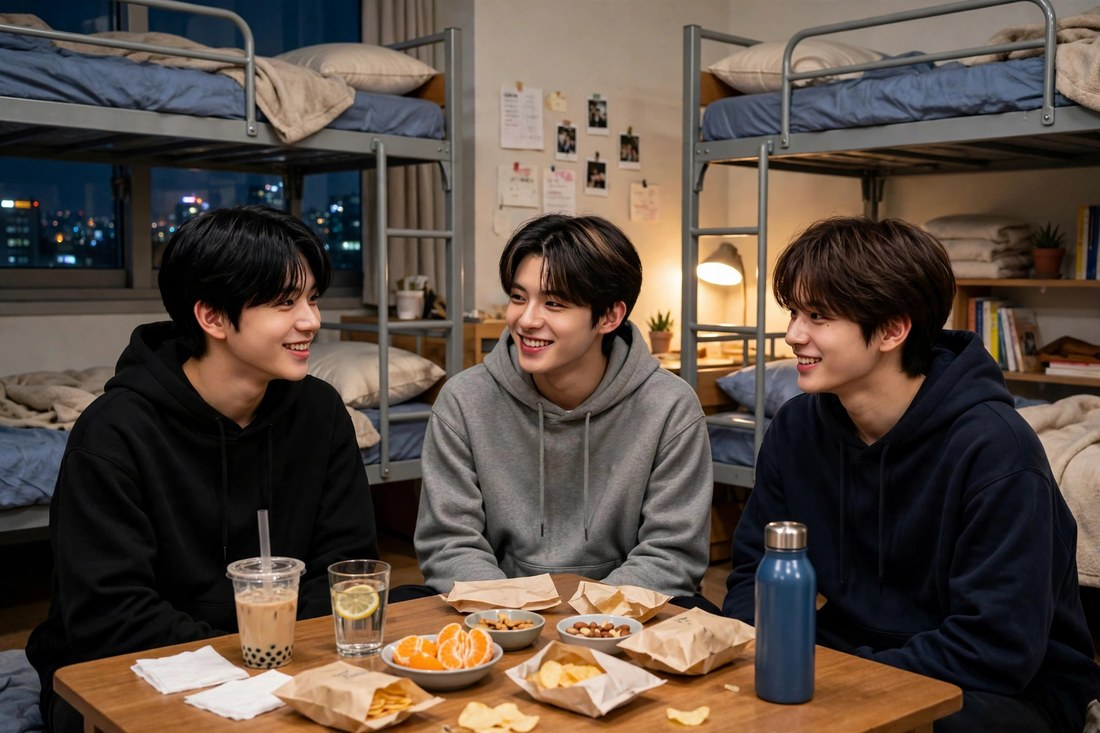
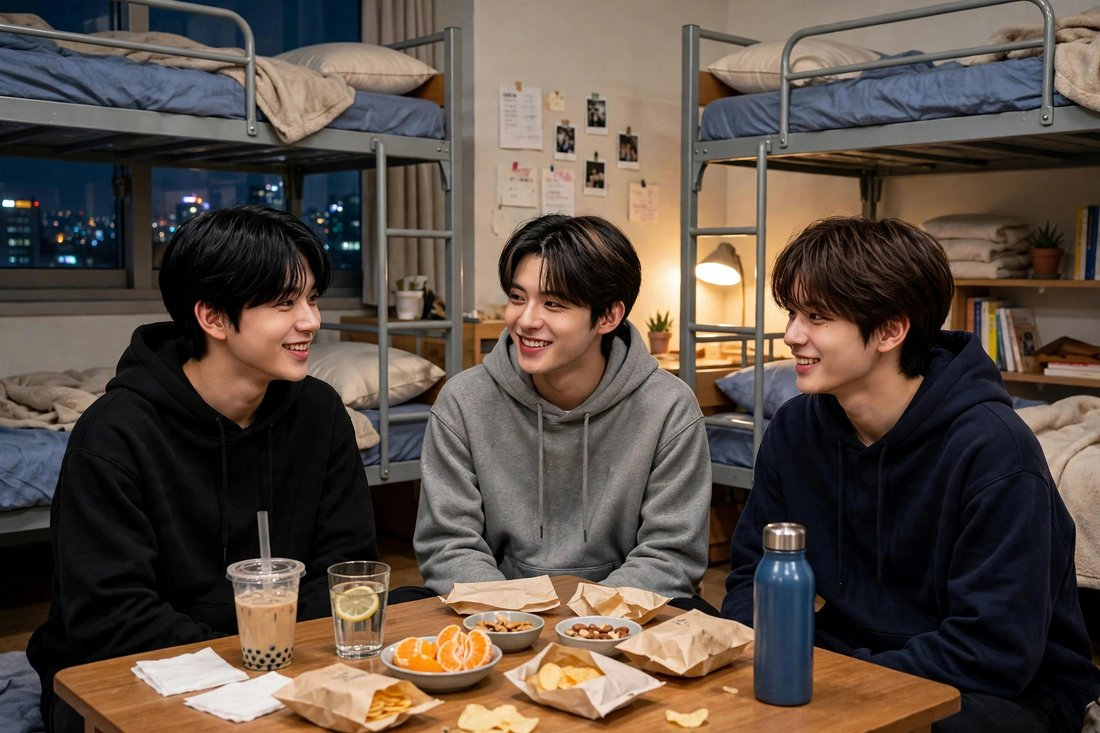
v90: the six member photos' faces pulled closer to the real people — she said "顔をリアル寄せで" after seeing v89 on her phone. Each of the six v89 frames is regenerated as an edit of itself (same scene, composition, poses, clothes, lighting) with the faces redrawn photorealistically from the in-game offici

diff --git a/index.html b/index.html
@@ -1621,6 +1621,7 @@ body.a11y-rm .pimg>img,body.a11y-rm .ig-grid img,body.a11y-rm .ph-grid img,body.
 @keyframes tx87{0%{opacity:0}2.9%{opacity:1}14.3%{opacity:1}17.1%{opacity:0}100%{opacity:0}}
 /* ===== v88: bulk generated photos — she said "大量にがぞういれてな". Twelve new AI-generated photos join the Photos album (PHOTOS), the game's photo surface, as pure additions: no existing photo or asset is replaced anywhere, and nothing else on any screen changes (this block is comment-only; the album grid, For You, albums and search all read PHOTOS as before, and the IG roll picks the new srcs up through the same igRollImgs path). The twelve, each generated for this pass and eyeballed one by one for setting consistency before inclusion (Seoul / 2023 / audition-program world; no readable text, no logos, no watermark, no physical contradictions — mirror reflections, wet-street reflections, backstage rigging all consistent): ten faceless places and things — assets/gen-agency88.jpg (the company lobby: glass facade, pale wood, a wide staircase, empty), assets/gen-practice88.jpg (an empty mirror-walled practice room in the morning, water bottles and a towel by the mirror), assets/gen-dorm88.jpg (the trainees' dorm room at dusk: metal bunk beds, a low table with snacks and notebooks, hoodies over a chair), assets/gen-cafeteria88.jpg (a cafeteria tray: rice, kimchi, miso soup, grilled mackerel, bean sprouts and braised potatoes), assets/gen-ramen88.jpg (a convenience-store window table at night: steaming cup ramen, a triangle kimbap and a banana milk, the rainy street in bokeh behind the glass), assets/gen-backstage88.jpg (a backstage corridor: flight cases, coiled cables, a wedge monitor, blue stage light at the far end), assets/gen-rainstreet88.jpg (a brick alley just after rain, umbrellas by a doorway, shop lights reflecting on wet asphalt; distant signboards are defocused to unreadability), assets/gen-dressing88.jpg (an empty dressing room: a bulb-ringed mirror, garment bags on a rack, a hair dryer and water bottles on the counter), assets/gen-hangangpark88.jpg (Hangang Park on a bright morning: lawn, the river, a long bridge, a parasol stall far off), assets/gen-rooftop88.jpg (the company rooftop at dusk: a railing, the city lighting up, mountains on the horizon) — and two people photos, inside her standing line that face generation is for Nao and Hiroto only, both modeled on the in-game portraits exactly as in v87 (Hiroto on assets/av-hiroto.jpg, Nao on the disguised assets/nao-profile.jpg; the raw personal photos in profile-inbox were neither used nor embedded): assets/gen-hiroto-stage88.jpg (Hiroto alone in the stage wing, black outfit, an ear-monitor in his hand, blue light and haze past the curtain) and assets/gen-duo-practice88.jpg (Hiroto and Nao sitting on the practice-room floor in black hoodies, laughing mid-break; Nao reads as a young male trainee with the same boyish layered brown haircut and small mole — nothing in the frame reveals the secret). Unlock gates reuse the album's existing n scale (1/1/2/2/3/3/3/4/4/4/5/5) and dates run 2023年7月-10月 in the album's own chronology; captions follow the album's established first-person memory-note style from v53/v54. Album data + twelve generated photos + version labels only — story text, DATA, choice effects, thresholds, endings and the save format (+ lastart-wish-undo key) unchanged, no new save fields (the pfav range check reads PHOTOS.length as before, so existing favorites stay valid); the story viewer tap-zone overlap, call toast positions and Nao's age/birthday left alone ===== */
 /* ===== v89: photos with the other members — she asked for "他のメンバとの写真も" and, asked to confirm, answered "メンバーの顔も生成してええよ", lifting her standing line (face generation for Nao and Hiroto only) for member faces as well. Six new AI-generated photos join the Photos album (PHOTOS) as pure additions; no existing photo or asset is replaced anywhere (this block is comment-only; the album grid, For You, albums and search read PHOTOS as before, and the IG roll picks the new srcs up through the same igRollImgs path). The six, each generated for this pass with the members' in-game official portraits as identity references and eyeballed one by one before inclusion (each member must read as himself against his official portrait; Seoul / 2023 / audition-program world; no readable text, no logos, no lettered name tags, no watermark, no physical contradictions): assets/gen-sakuya-nao89.jpg (Sakuya and Nao at a cafeteria table — Sakuya, reddish-brown layered hair and soft round face as in assets/av-sakuya.jpg, holding up a croissant with both hands, his signature bread; Nao beside him in the disguised male-trainee look of assets/nao-profile.jpg, boyish layered brown hair and the small mole — nothing reveals the secret), assets/gen-riku-yushi89.jpg (Riku, black center-parted hair as in assets/av-riku.jpg, stretching on the practice-room floor with a towel round his neck; Yushi, light ash-brown side-swept hair as in assets/av-yushi.jpg, laughing with a water bottle), assets/gen-daeyoung-dorm89.jpg (an evening in the dorm: Daeyoung, black layered hair and soft round face as in assets/av-daeyoung.jpg, Hiroto, streaked dark-brown hair as in assets/av-hiroto.jpg, and Nao around a low table of snacks between the bunk beds), assets/gen-hiroto-sion89.jpg (backstage before a performance: Hiroto in a black stage outfit holding an ear-monitor, Sion, black side-parted hair as in assets/av-sion.jpg, a hand on his shoulder like the leader he is), assets/gen-group-practice89.jpg (six trainees on the practice-room floor mid-break — Hiroto, Nao, Sakuya, Riku, Yushi, Sion in black hoodies, laughing, water bottles in front of them), assets/gen-team-stage89.jpg (four of them in the stage wing in matching black stage outfits, arms round each other's shoulders — Sion, Sakuya, Hiroto, Nao — blue light and haze beyond). Every group frame is a wholesome practice / daily-life / team context only; Sakuya is a minor in this setting, so no romantic composition appears in any photo he is in. The raw personal photos in profile-inbox were neither used as reference nor embedded; Nao's reference is the in-game disguised portrait only. Unlock gates reuse the album's existing n scale (3/3/4/4/5/5) and dates run 2023年8月-10月 in the album's own chronology; captions follow the album's established first-person memory-note style from v53/v54, factual labels only, no new lines for Nao. Album data + six generated photos + version labels only — story text, DATA, choice effects, thresholds, endings and the save format (+ lastart-wish-undo key) unchanged, no new save fields (the pfav range check reads PHOTOS.length as before, so existing favorites stay valid); the story viewer tap-zone overlap, call toast positions and Nao's age/birthday left alone ===== */
+/* ===== v90: the six member photos from v89 are regenerated with faces pulled closer to the real people — she said "顔をリアル寄せで" after seeing v89 on her phone. Each of the six is an edit of its v89 frame (same scene, composition, poses, clothes and lighting) with the faces redrawn photorealistically from the in-game official portraits, referenced one person at a time and eyeballed one by one before adoption: gen-sakuya-nao89.jpg (Sakuya's soft round face and reddish-brown layered hair from av-sakuya; Nao in three-quarter profile with the layered brown hair and small mole of nao-profile, still reading as a young male trainee), gen-riku-yushi89.jpg (Riku's defined features and black center-parted hair from av-riku in profile; Yushi's slim face, sharp eyes and light ash-brown hair from av-yushi), gen-daeyoung-dorm89.jpg (Daeyoung's soft round face and black layered hair from av-daeyoung; Hiroto's round face, big eyes and streaked dark-brown hair from av-hiroto; Nao's soft features and mole from nao-profile), gen-hiroto-sion89.jpg (Hiroto from av-hiroto looking up; Sion's longer face, defined nose and jaw and black side-parted hair from av-sion), gen-group-practice89.jpg (all six in album order — Hiroto, Nao, Sakuya, Riku, Yushi, Sion — each distinguishable by hair and face type), gen-team-stage89.jpg (Sion, Sakuya, Hiroto, Nao left to right, each matching his portrait). File names, album placement, unlock gates, dates and captions are exactly as in v89; every official photo is untouched and the raw personal photos in profile-inbox were neither used nor embedded. All frames remain wholesome practice / daily-life / team contexts only; Sakuya is a minor in this setting, so no romantic composition appears in any photo he is in. Photos only + version labels + this comment + README — story text, DATA, choice effects, thresholds, endings and the save format (+ lastart-wish-undo key) unchanged, no new save fields; the story viewer tap-zone overlap, call toast positions and Nao's age/birthday left alone ===== */
 </style>
 </head>
 <body>
@@ -1651,7 +1652,7 @@ body.a11y-rm .pimg>img,body.a11y-rm .ig-grid img,body.a11y-rm .ph-grid img,body.
 <button class="t-btn sub" id="t-ends">エンディングコレクション <span id="t-ends-n"></span></button>
 <div class="t-note">実在の人物・番組を題材にした創作フィクション（ファンメイド作品）です。会話やナオ・大翔の結果は創作であり、史実の選抜結果とは異なる分岐を含みます。</div>
 <div class="t-note" style="font-size:9px;line-height:1.55;opacity:.72">追加写真の一部は Wikimedia Commons のCCライセンス写真などです（トッポッキ＝jetalone／CC BY 2.0、漢江の夜景＝d'n'c／CC BY-SA 2.0（カバー写真は別トリミング・反転の加工版）、東京ドーム＝ClarkSui／CC BY-SA 3.0、弘大の通り＝Minseong Kim／CC BY-SA 4.0、サムギョプサル＝revi／CC BY 2.0 KR、景福宮＝Kokiri／CC BY-SA 3.0、Nソウルタワー＝lumoplank／CC0、大阪城＝Martin Falbisoner／CC BY-SA 4.0（母のカバー写真は別トリミングの加工版）、広蔵市場のチヂミ＝Bo Park（米陸軍）／パブリックドメイン、パン屋のショーケース＝Steam Pipe Trunk Distribution Venue／CC BY 2.0、明洞の夜＝Christian Bolz／CC BY-SA 4.0）。BGM・効果音は端末内で合成したオリジナルです。</div>
-<div class="t-ver">LASTART編 v89</div>
+<div class="t-ver">LASTART編 v90</div>
 </div>
 </div>
 <!-- LOCK -->
@@ -1780,7 +1781,7 @@ body.a11y-rm .pimg>img,body.a11y-rm .ig-grid img,body.a11y-rm .ph-grid img,body.
 <button class="set-prof" data-deco><img src="assets/av-nao.jpg" alt=""><span><span class="sn">ナオ</span><div class="ss" id="set-prof-sub">練習生としてLASTARTに参加中</div></span></button>
 <div class="set-grp">
 <button class="set-row" id="set-ends"><span class="lft"><span class="set-ic" style="background:#ff9500"><svg viewBox="0 0 24 24"><path d="M18.5 3h-3V2.5A1.5 1.5 0 0 0 14 1H10a1.5 1.5 0 0 0-1.5 1.5V3H5.5A1.5 1.5 0 0 0 4 4.5c0 3 1.9 5.4 4.6 6.3A6 6 0 0 0 11 14.9v1.6H7.5a1.5 1.5 0 0 0-1.5 1.5v2h12v-2a1.5 1.5 0 0 0-1.5-1.5H13v-1.6a6 6 0 0 0 2.4-4.6C18.1 9.9 20 7.5 20 4.5A1.5 1.5 0 0 0 18.5 3zM6.2 7.2A4.4 4.4 0 0 1 6 5h1v3.4c-.3-.4-.6-.8-.8-1.2zM18 5h1a4.4 4.4 0 0 1-.2 2.2c-.2.4-.5.8-.8 1.2z" transform="scale(.92) translate(1,1)"/></svg></span>エンディングコレクション</span><span><span id="set-ends-n"></span><span class="chev">›</span></span></button>
-<button class="set-row" id="set-ver" data-deco><span class="lft"><span class="set-ic" style="background:#8e8e93"><svg viewBox="0 0 24 24"><circle cx="12" cy="12" r="9" fill="none" stroke="#fff" stroke-width="2"/><path d="M12 10.6V17" stroke="#fff" stroke-width="2.2" stroke-linecap="round"/><circle cx="12" cy="7.4" r="1.4"/></svg></span>バージョン</span><span>v89</span></button>
+<button class="set-row" id="set-ver" data-deco><span class="lft"><span class="set-ic" style="background:#8e8e93"><svg viewBox="0 0 24 24"><circle cx="12" cy="12" r="9" fill="none" stroke="#fff" stroke-width="2"/><path d="M12 10.6V17" stroke="#fff" stroke-width="2.2" stroke-linecap="round"/><circle cx="12" cy="7.4" r="1.4"/></svg></span>バージョン</span><span>v90</span></button>
 <button class="set-row" id="set-clog"><span class="lft"><span class="set-ic" style="background:#5e5ce6"><svg viewBox="0 0 24 24" fill="none" stroke="#fff" stroke-width="2" stroke-linecap="round"><path d="M5 4.5h14M5 9.5h14M5 14.5h9M5 19.5h9"/></svg></span>選択肢の記録</span><span><span id="set-clog-n"></span><span class="chev">›</span></span></button>
 <button class="set-row" id="set-notif"><span class="lft"><span class="set-ic" style="background:#ff3b30"><svg viewBox="0 0 24 24" fill="none" stroke="#fff" stroke-width="1.8" stroke-linejoin="round"><path d="M6.2 10.2a5.8 5.8 0 0 1 11.6 0c0 3.9 1.4 5.3 1.4 5.3H4.8s1.4-1.4 1.4-5.3z"/><path d="M10.1 19a2 2 0 0 0 3.8 0" stroke-linecap="round"/></svg></span>通知</span><span><span id="set-notif-st">オン</span><span class="chev">›</span></span></button>
 <button class="set-row" id="set-a11y"><span class="lft"><span class="set-ic" style="background:#0a84ff"><svg viewBox="0 0 24 24" fill="#fff"><circle cx="12" cy="4.4" r="2.2"/><path d="M19.6 8.1c-2.5.6-5 0.9-7.6 0.9s-5.1-.3-7.6-.9l.5-2c2.3.5 4.7.8 7.1.8s4.8-.3 7.1-.8l.5 2z"/><path d="M13.1 10.2v3.3l2.8 5.2-1.9 1-2.4-4.5-2.5 4.5-1.9-1 2.8-5.2v-3.3h3.1z" transform="translate(-1.05 0)"/></svg></span>アクセシビリティ</span><span><span id="set-a11y-st">標準</span> <span class="chev">›</span></span></button>
@@ -1789,7 +1790,7 @@ body.a11y-rm .pimg>img,body.a11y-rm .ig-grid img,body.a11y-rm .ph-grid img,body.
 <div class="set-grp">
 <button class="set-row danger" id="set-reset"><span class="lft"><span class="set-ic" style="background:#ff3b30"><svg viewBox="0 0 24 24"><path d="M9 3.5A1.5 1.5 0 0 1 10.5 2h3A1.5 1.5 0 0 1 15 3.5V4h4.5v2H4.5V4H9zm-3.2 3h12.4l-.8 12.2A2.5 2.5 0 0 1 14.9 21H9.1a2.5 2.5 0 0 1-2.5-2.3L5.8 6.5zM9.5 9v8.5h1.8V9zm4.7 0v8.5H16V9z" transform="scale(.94) translate(.7,.5)"/></svg></span>最初からやり直す</span><span>セーブを消去</span></button>
 </div>
-<div class="locknote">『デビュー前の彼らに出会う件』v89<br>実在の人物・番組を題材にした創作フィクションです。<br>史実の選抜（リク・サクヤ・デヨン・リョウ＋ジョンミン選抜後離脱）と<br>ナオ・大翔のIF結果は分岐します。<br>素材：動画は公式YouTube、音楽はApple Music公式プレビュー、写真は公式プロフィール写真など、公開情報・公開素材に基づきます。<br>BGM・効果音は端末内で合成したオリジナルです。追加写真の一部は Wikimedia Commons のCCライセンス写真など（トッポッキ＝jetalone／CC BY 2.0、漢江の夜景＝d'n'c／CC BY-SA 2.0（カバー写真は別トリミング・反転の加工版）、東京ドーム＝ClarkSui／CC BY-SA 3.0、弘大の通り＝Minseong Kim／CC BY-SA 4.0、サムギョプサル＝revi／CC BY 2.0 KR、景福宮＝Kokiri／CC BY-SA 3.0、Nソウルタワー＝lumoplank／CC0、大阪城＝Martin Falbisoner／CC BY-SA 4.0（母のカバー写真は別トリミングの加工版）、広蔵市場のチヂミ＝Bo Park（米陸軍）／パブリックドメイン、パン屋のショーケース＝Steam Pipe Trunk Distribution Venue／CC BY 2.0、明洞の夜＝Christian Bolz／CC BY-SA 4.0）です。追加写真の一部（v87〜v89で追加した分）はAI生成の写真です。</div>
+<div class="locknote">『デビュー前の彼らに出会う件』v90<br>実在の人物・番組を題材にした創作フィクションです。<br>史実の選抜（リク・サクヤ・デヨン・リョウ＋ジョンミン選抜後離脱）と<br>ナオ・大翔のIF結果は分岐します。<br>素材：動画は公式YouTube、音楽はApple Music公式プレビュー、写真は公式プロフィール写真など、公開情報・公開素材に基づきます。<br>BGM・効果音は端末内で合成したオリジナルです。追加写真の一部は Wikimedia Commons のCCライセンス写真など（トッポッキ＝jetalone／CC BY 2.0、漢江の夜景＝d'n'c／CC BY-SA 2.0（カバー写真は別トリミング・反転の加工版）、東京ドーム＝ClarkSui／CC BY-SA 3.0、弘大の通り＝Minseong Kim／CC BY-SA 4.0、サムギョプサル＝revi／CC BY 2.0 KR、景福宮＝Kokiri／CC BY-SA 3.0、Nソウルタワー＝lumoplank／CC0、大阪城＝Martin Falbisoner／CC BY-SA 4.0（母のカバー写真は別トリミングの加工版）、広蔵市場のチヂミ＝Bo Park（米陸軍）／パブリックドメイン、パン屋のショーケース＝Steam Pipe Trunk Distribution Venue／CC BY 2.0、明洞の夜＝Christian Bolz／CC BY-SA 4.0）です。追加写真の一部（v87〜v89で追加し、v90で顔を実物寄りに作り直した分）はAI生成の写真です。</div>
 </div>
 </div>
 <div id="ovl"></div>

diff --git a/README.md b/README.md
@@ -6,6 +6,18 @@
 
 ▶ **プレイ:** https://v5m44g26fb-sudo.github.io/lastart-wish-game/
 
+## v90（第14弾＝集合写真の顔リアル寄せ：本人の指示「顔をリアル寄せで」。v89で追加した写真6枚について、各人の顔をもっと実物らしく本人に寄せて作り直す回。ファイル名・組み込み先（写真アプリのアルバム）・構図・場面はv89のまま、顔だけを写実寄りに再生成。数値・物語・操作仕様は不変）
+- **差し替えた写真の一覧（6枚すべて、v89のフレームを土台に公式ポートレートを1人ずつ参照して顔を再生成し、組み込み前に1枚ずつ目視で照合済み。いずれも1100×733・115〜151KBにリサイズ・再圧縮）**：
+  - `assets/gen-sakuya-nao89.jpg`（約143KB）＝**サクヤとナオ（食堂）**。サクヤ＝公式ポートレート（`assets/av-sakuya.jpg`）の柔らかい丸顔と赤茶のレイヤードヘアで判別可。ナオ＝変装ポートレート（`assets/nao-profile.jpg`）の柔らかい顔立ち・レイヤー髪・目の下のほくろで、横顔でも男子練習生として読める
+  - `assets/gen-riku-yushi89.jpg`（約115KB）＝**リクとユウシ（練習室）**。リク＝`assets/av-riku.jpg` の黒髪センターパートと締まった顔立ち（横顔）。ユウシ＝`assets/av-yushi.jpg` の細い顔と鋭い目元、亜麻色の髪
+  - `assets/gen-daeyoung-dorm89.jpg`（約151KB）＝**デヨンと大翔とナオ（寮の夜）**。デヨン＝`assets/av-daeyoung.jpg` の丸顔と黒のレイヤー髪。大翔＝`assets/av-hiroto.jpg` の丸顔・大きな目・メッシュ入りのダークブラウン髪。ナオ＝変装ポートレートの顔立ちとほくろ
+  - `assets/gen-hiroto-sion89.jpg`（約122KB）＝**大翔とシオン（舞台裏）**。大翔＝`assets/av-hiroto.jpg` の丸顔とメッシュ髪。シオン＝`assets/av-sion.jpg` の面長な顔・鼻と顎のライン・黒髪サイドパート
+  - `assets/gen-group-practice89.jpg`（約137KB）＝**6人の集合（練習室）**。左から大翔・ナオ・サクヤ・リク・ユウシ・シオンの順で、全員が髪型と顔立ちで個別に判別できることを確認
+  - `assets/gen-team-stage89.jpg`（約121KB）＝**4人の集合（舞台袖）**。左からシオン・サクヤ・大翔・ナオの順で、全員が各公式ポートレートと見比べて本人として読めることを確認
+- **整合チェック（6枚とも目視確認）**：2023年・ソウル・番組設定としての整合あり、読める文字・ロゴ・透かしなし、物理の矛盾なし。サクヤは作中未成年設定のため、全員が写る写真は練習・日常・チームの健全な文脈のみ（v89の構図どおり）。ナオは変装した姿のまま＝秘密が写真から漏れる要素なし。**本人の生写真（profile-inbox）は参照にも組み込みにも使っていない**。公式写真そのものは一切差し替えていない
+- **不変の担保**：ゲージ効果オブジェクトの多重集合が v89 と完全一致（選択肢の `e` オブジェクト＋初期ゲージ＝27件をキー正規化して自前 md5 照合、編集前後とも同一値）。物語テキスト・DATA・閾値・エンディング条件・セーブ形式（本体キー＋undoキー `lastart-wish-undo`）は不変、新しい保存項目なし。判断待ち項目（ストーリービューアの右タップゾーン重なり、通話中トースト位置、ナオの年齢・誕生日）には触れていない。変更は生成画像6枚の差し替え＋CSSコメントブロック1件（コメントのみ）＋版数表記3箇所＋ロック画面のクレジット注記＋READMEのみ
+- **検証**：パース確認（両 script ブロック node --check OK、CSS 括弧一致）、Playwright 実駆動（検証用サーバーは競合しないポートを使用し、配信ディレクトリと「LASTART編 v90」表記を事前確認）＝タイトル→開始→ロック解除→ホーム→写真アプリを駆動し、差し替えた画像6枚すべての読み込み完了（naturalWidth>0）とビューア表示を実測、320／360／390／430px の全幅で横溢れなし、console／page エラー 0件
+
 ## v89（第12弾＝他のメンバーとの写真：本人の指示「他のメンバとの写真も」＋確認への回答「メンバーの顔も生成してええよ」。これまで「顔の生成はなおと大翔だけ」だった本人の線引きが、メンバーとの写真については本人の明示で解かれた回。大翔やナオと他の練習生が一緒に写る生成写真6枚を写真アプリのアルバム（PHOTOS）に追加。既存の写真・素材は一切差し替えず追加のみ。数値・物語・操作仕様は不変）
 - **追加した写真の一覧（6枚すべて生成ツールで新規生成し、各人の公式ポートレートを参照に容姿を寄せ、組み込み前に1枚ずつ目視で整合チェック済み。いずれも1100×733・125〜161KBにリサイズ・再圧縮）**：
   - `assets/gen-sakuya-nao89.jpg`（約154KB）＝**サクヤとナオ（食堂）**。赤茶のレイヤードヘアのサクヤが両手でクロワッサンを持ち上げ、隣に変装した姿のナオ。韓国式の食堂トレイを前にした昼のオフショット
